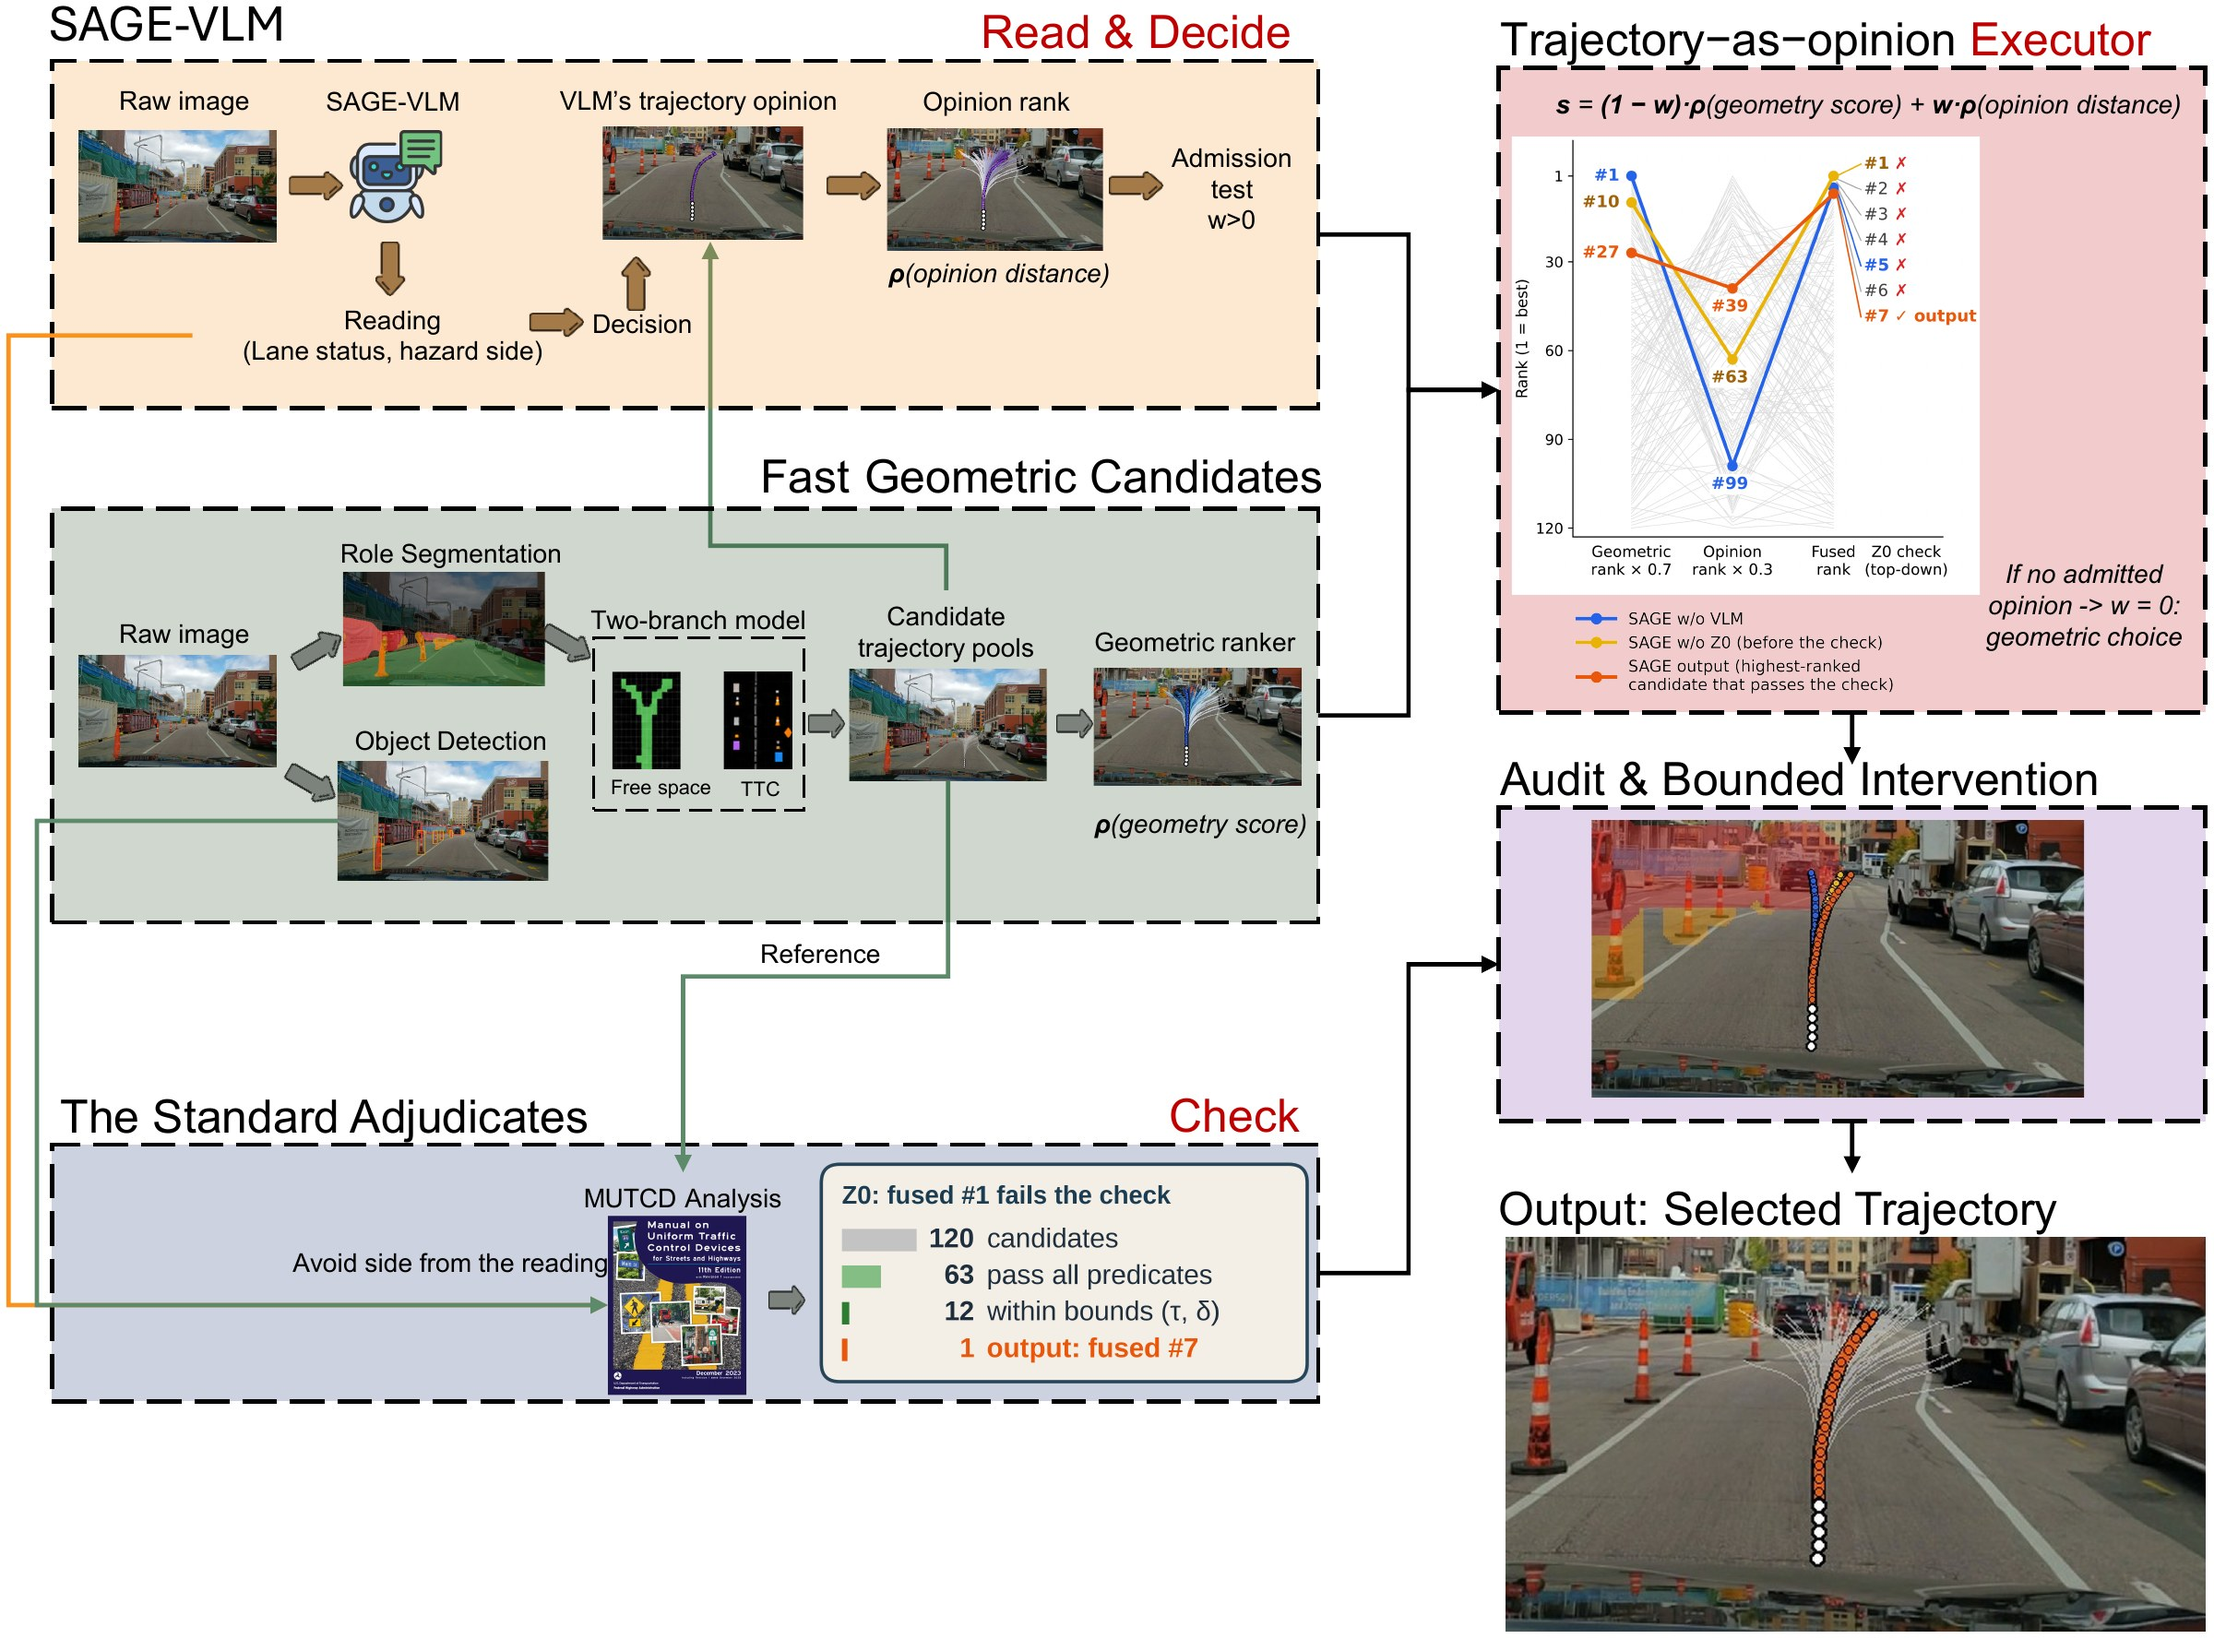
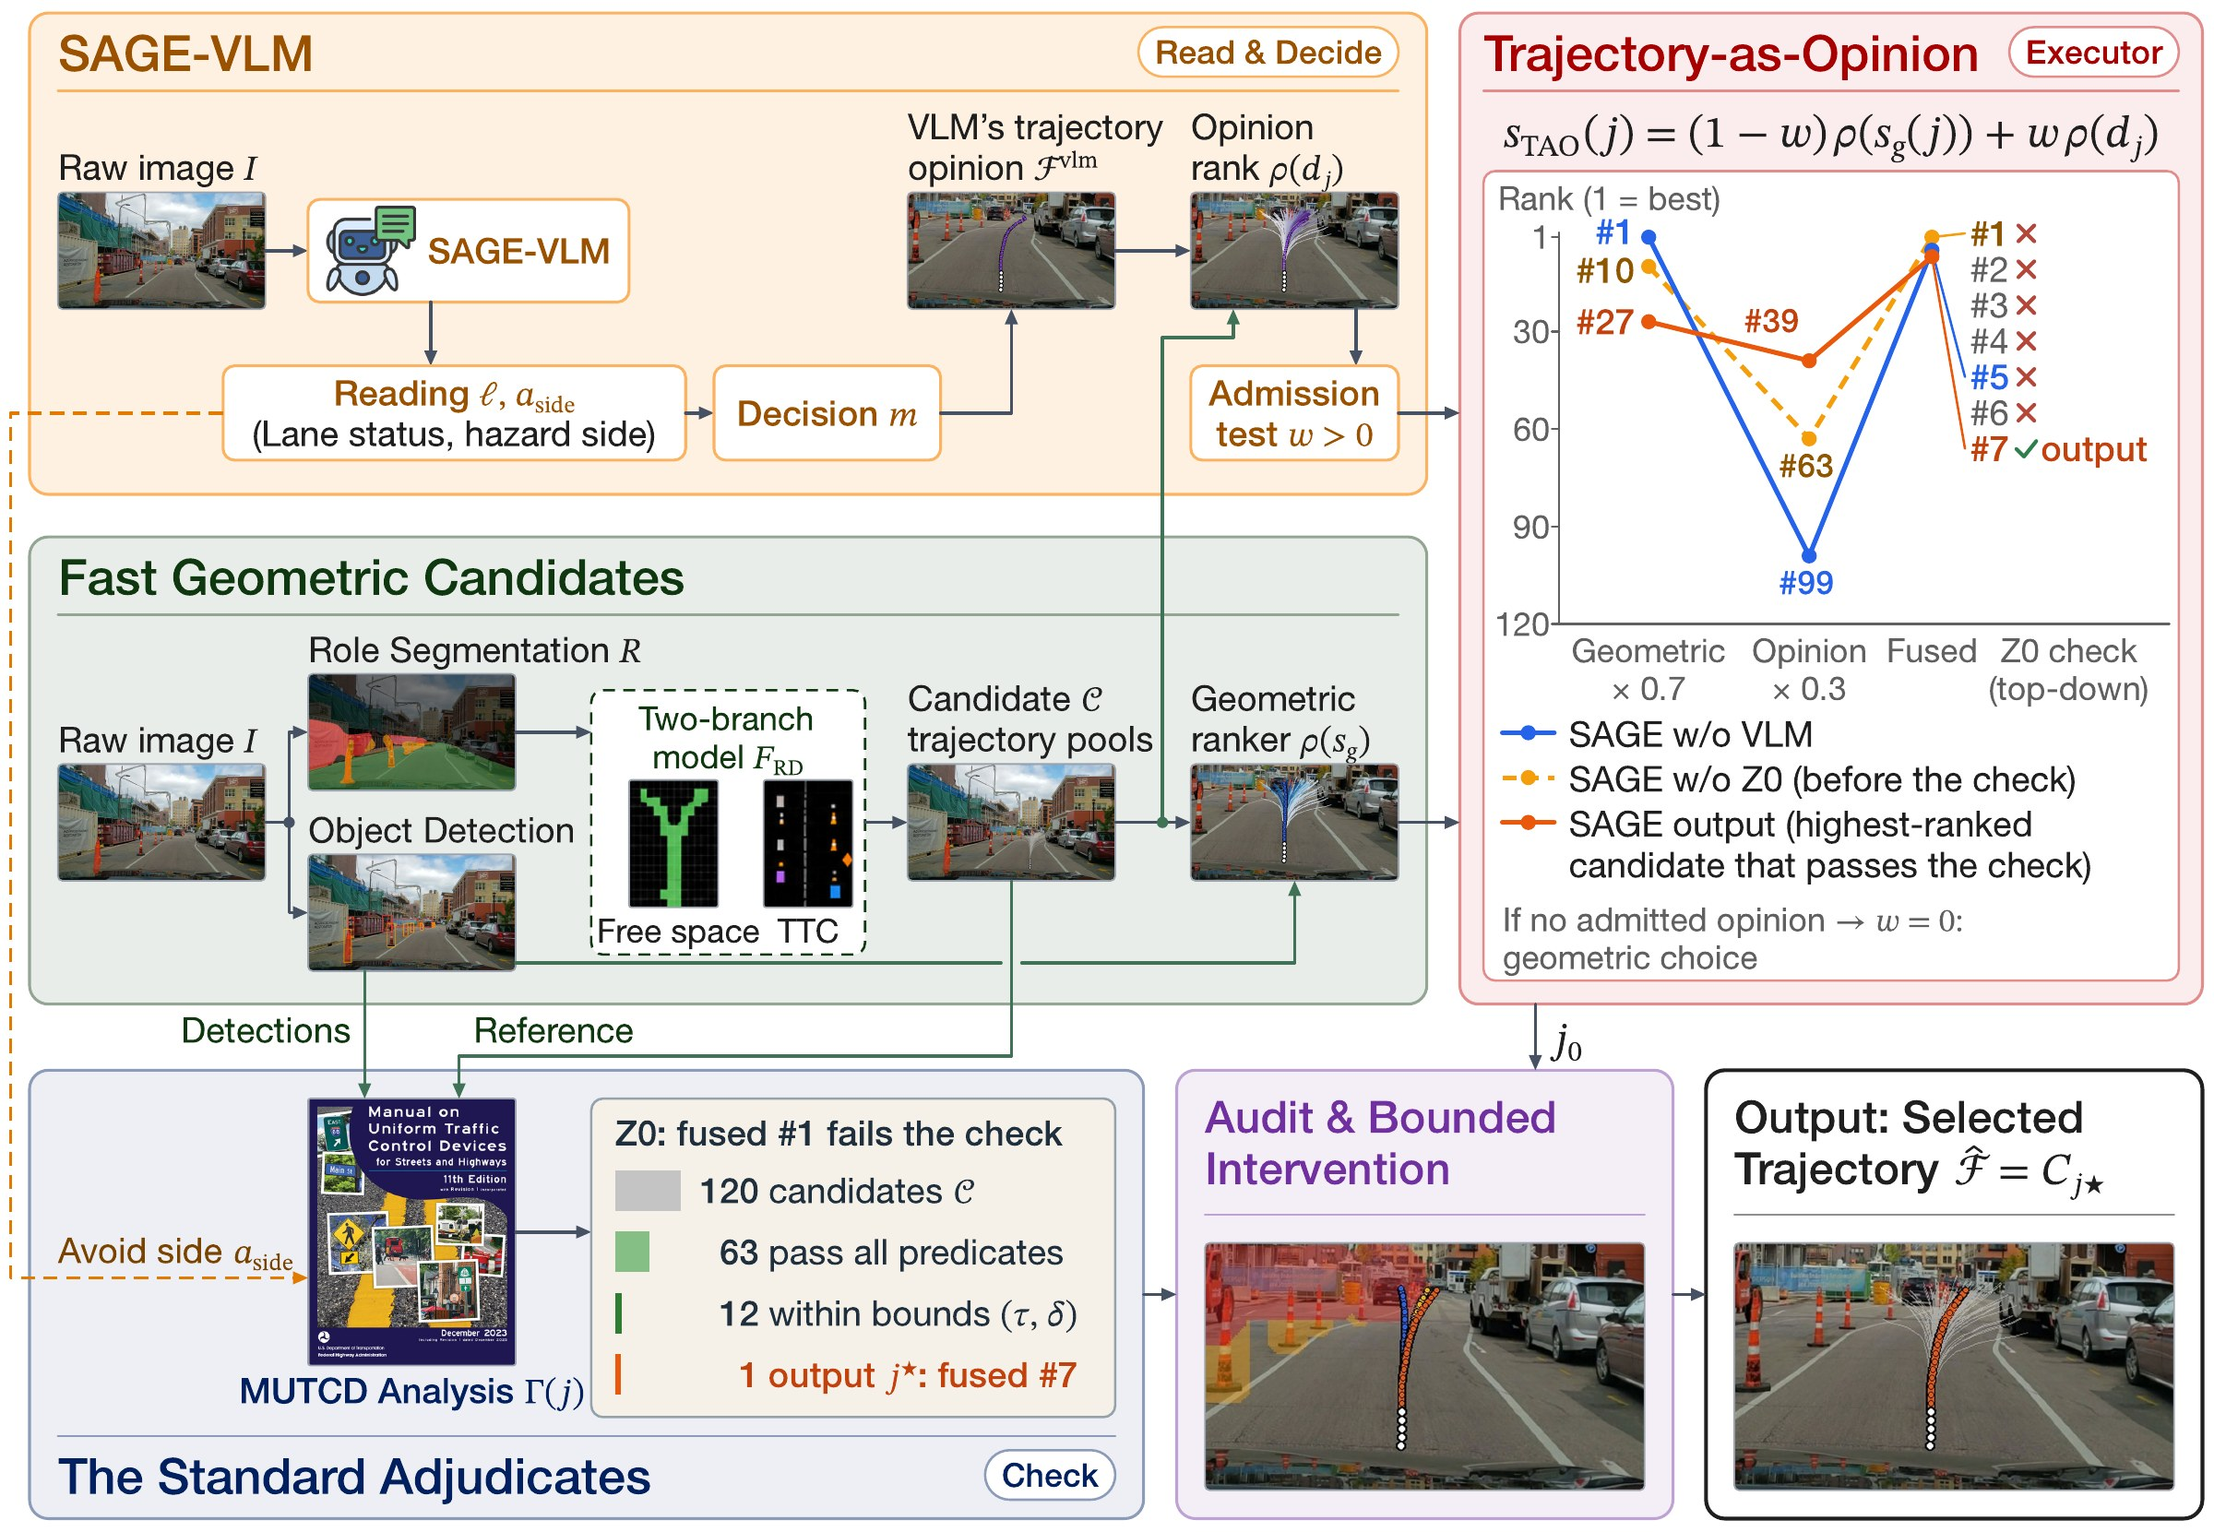
Figures 1-3 redrawn (motivation, framework, candidate generation)

diff --git a/index.html b/index.html
@@ -399,7 +399,7 @@ footer p + p { margin-top: 6px; }
   <div class="wrap">
     <h2 class="sec-title"><span class="badge"><i class="fa-solid fa-star"></i></span>Highlights</h2>
     <figure class="fig" style="max-width: 760px; margin: 18px auto 0;">
-      <img src="static/images/fig1_motivation.jpg" width="1600" height="1615" loading="lazy" alt="Three ways to predict a work-zone pathway: a geometric predictor drifts toward the coned-off side, an end-to-end VLM reads the scene but executes imprecisely, and SAGE re-ranks intact geometric candidates with the VLM opinion and checks them against MUTCD provisions.">
+      <img src="static/images/fig1_motivation.jpg" width="1600" height="1425" loading="lazy" alt="Three ways to predict a work-zone pathway: a geometric predictor drifts toward the coned-off side, an end-to-end VLM reads the scene but executes imprecisely, and SAGE re-ranks intact geometric candidates with the VLM opinion and checks them against MUTCD provisions.">
       <figcaption class="figcap"><b>Temporary-control-aware pathway prediction.</b> (a) A geometric predictor selects a smooth path toward the coned-off side. (b) A VLM provides a scene interpretation and an imprecise trajectory. (c) SAGE uses the trajectory as a preference over intact geometric candidates and the structured reading as input to checks derived from MUTCD provisions. The paths illustrate the division of labor.</figcaption>
     </figure>
     <ol class="hl">
@@ -416,7 +416,7 @@ footer p + p { margin-top: 6px; }
     <h2 class="sec-title"><span class="badge"><i class="fa-solid fa-diagram-project"></i></span>How SAGE works</h2>
     <p class="sec-sub">Read, decide, execute, check: four steps meet in one shared pool of candidate paths. Geometry builds every path; SAGE-VLM and the MUTCD predicates choose among them.</p>
     <figure class="fig">
-      <img src="static/images/fig2_framework.jpg" width="2400" height="1688" loading="lazy" alt="SAGE framework: SAGE-VLM reads and decides in the upper band, RD-YNet proposes geometric candidates in the middle band, MUTCD predicates and the bounded intervention check the choice in the lower band, and the trajectory-as-opinion executor fuses geometric and opinion ranks on the right.">
+      <img src="static/images/fig2_framework.jpg" width="2400" height="1661" loading="lazy" alt="SAGE framework: SAGE-VLM reads and decides in the upper band, RD-YNet proposes geometric candidates in the middle band, MUTCD predicates and the bounded intervention check the choice in the lower band, and the trajectory-as-opinion executor fuses geometric and opinion ranks on the right.">
       <figcaption class="figcap"><b>Overview of SAGE.</b> Middle band: role segmentation conditions the free-space and TTC-conditioned branches of RD-YNet, which propose 60 + 60 intact candidates, and a geometric ranker scores them. Upper band: SAGE-VLM states the lane status and hazard side, a passage decision, a goal, and a 15-point trajectory; its distance to each candidate yields an opinion rank. Right: the executor fuses the geometric and opinion ranks (SAGE w/o VLM blue, SAGE w/o Z0 yellow, SAGE output orange). Lower band: MUTCD predicates drive the audit and the bounded intervention Z0. Select a figure to enlarge it.</figcaption>
     </figure>
     <div class="steps">
@@ -433,7 +433,7 @@ footer p + p { margin-top: 6px; }
       <button class="tab" role="tab" aria-selected="false" data-tab="sem"><i class="fa-solid fa-road-barrier"></i>From evidence to a checked path</button>
       <button class="tab" role="tab" aria-selected="false" data-tab="sel"><i class="fa-solid fa-arrow-down-wide-short"></i>Candidate selection</button>
     </div>
-    <div class="tabpanel" data-panel="gen"><figure class="fig"><img src="static/images/fig3_candidate_generation.jpg" width="2000" height="1108" loading="lazy" alt="Candidate generation with RD-YNet on a San Antonio frame: role maps and detections, free-space and TTC-conditioned branches, and the combined pool of 120 candidates."><figcaption class="figcap"><b>Candidate generation with RD-YNet</b> on a San Antonio validation frame. The free-space branch receives the drivable and off-road maps, and the TTC-conditioned branch receives all six role maps. The closest free-space candidate lies 11.08 px from the human demonstration and the closest TTC-conditioned candidate 3.31 px; the 10 candidates within 10 px all come from the TTC-conditioned branch.</figcaption></figure></div>
+    <div class="tabpanel" data-panel="gen"><figure class="fig"><img src="static/images/fig3_candidate_generation.jpg" width="2000" height="1009" loading="lazy" alt="Candidate generation with RD-YNet on a San Antonio frame: role maps and detections, free-space and TTC-conditioned branches, and the combined pool of 120 candidates."><figcaption class="figcap"><b>Candidate generation with RD-YNet</b> on a San Antonio validation frame. The free-space branch receives the drivable and off-road maps, and the TTC-conditioned branch receives all six role maps. The closest free-space candidate lies 11.08 px from the human demonstration and the closest TTC-conditioned candidate 3.31 px; the 10 candidates within 10 px all come from the TTC-conditioned branch.</figcaption></figure></div>
     <div class="tabpanel" data-panel="sem" hidden><figure class="fig"><img src="static/images/fig4_semantic_to_path.jpg" width="2000" height="1443" loading="lazy" alt="From scene evidence to a checked pathway in a San Francisco work zone."><figcaption class="figcap"><b>From scene evidence to a checked pathway</b> in one San Francisco work zone. (a) Detections, work-zone proxies, and the observed prefix. (b) Role regions, detections, and the VLM's hazard-side reading linked to the predicates. (c) Checks on the choice of SAGE w/o Z0 and the SAGE output. (d) Z0 replaces the choice of SAGE w/o Z0 with an admissible candidate at a mean displacement of 7.21 px.</figcaption></figure></div>
     <div class="tabpanel" data-panel="sel" hidden><figure class="fig"><img src="static/images/fig5_candidate_selection.jpg" width="2000" height="1407" loading="lazy" alt="Candidate selection on a San Francisco frame: geometric, opinion, and fused ranks of the candidates."><figcaption class="figcap"><b>Candidate coverage and selection</b> in a San Francisco work zone. (a) The pool of 60 + 60 candidates and the human demonstration. (b) The choice of SAGE w/o VLM and the SAGE output in the same pool. (c) Geometric and opinion ranks for every candidate. (d) Cumulative candidate coverage, with the errors of the choice of SAGE w/o VLM (14.96 px) and the SAGE output (5.50 px) marked.</figcaption></figure></div>
 
